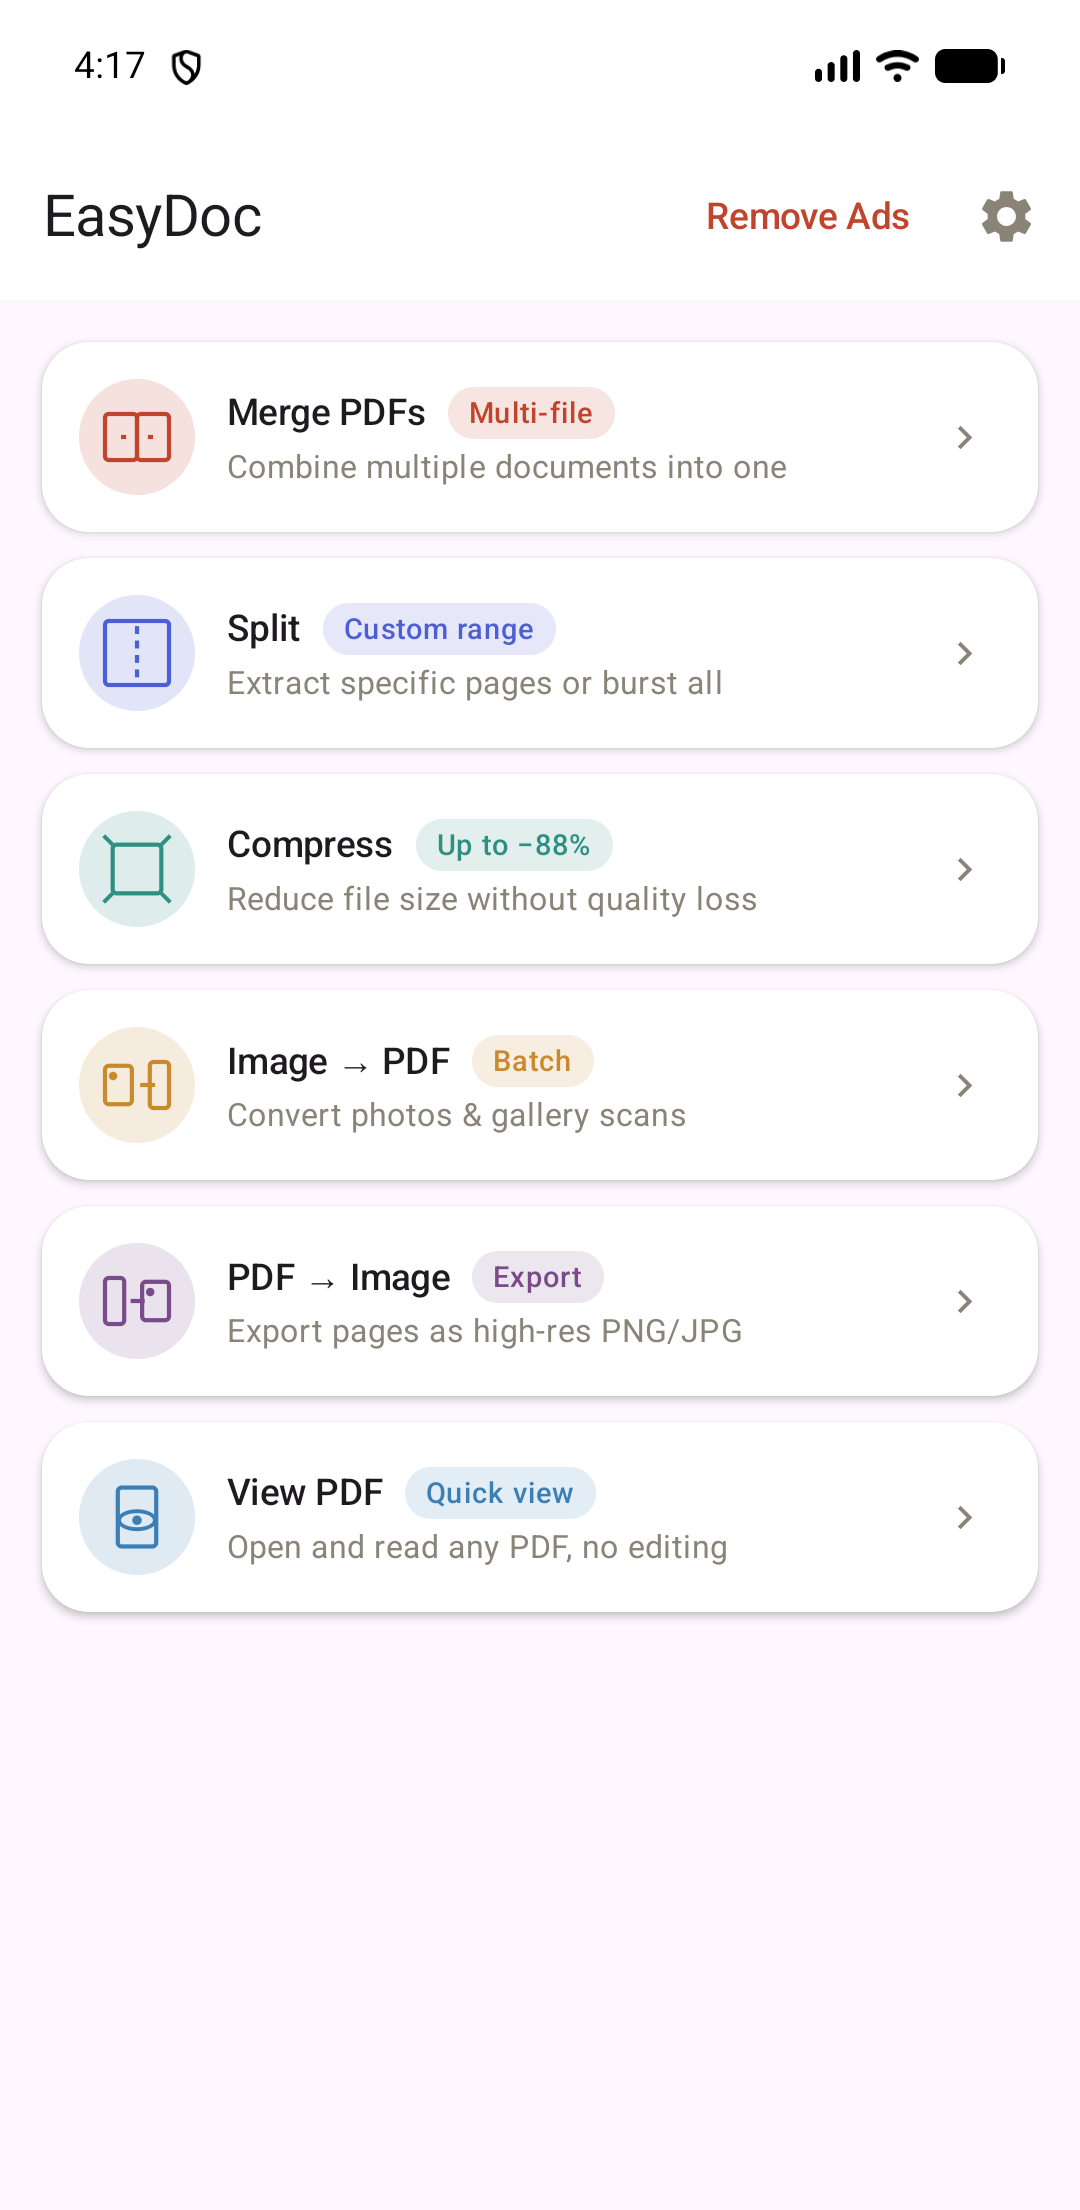
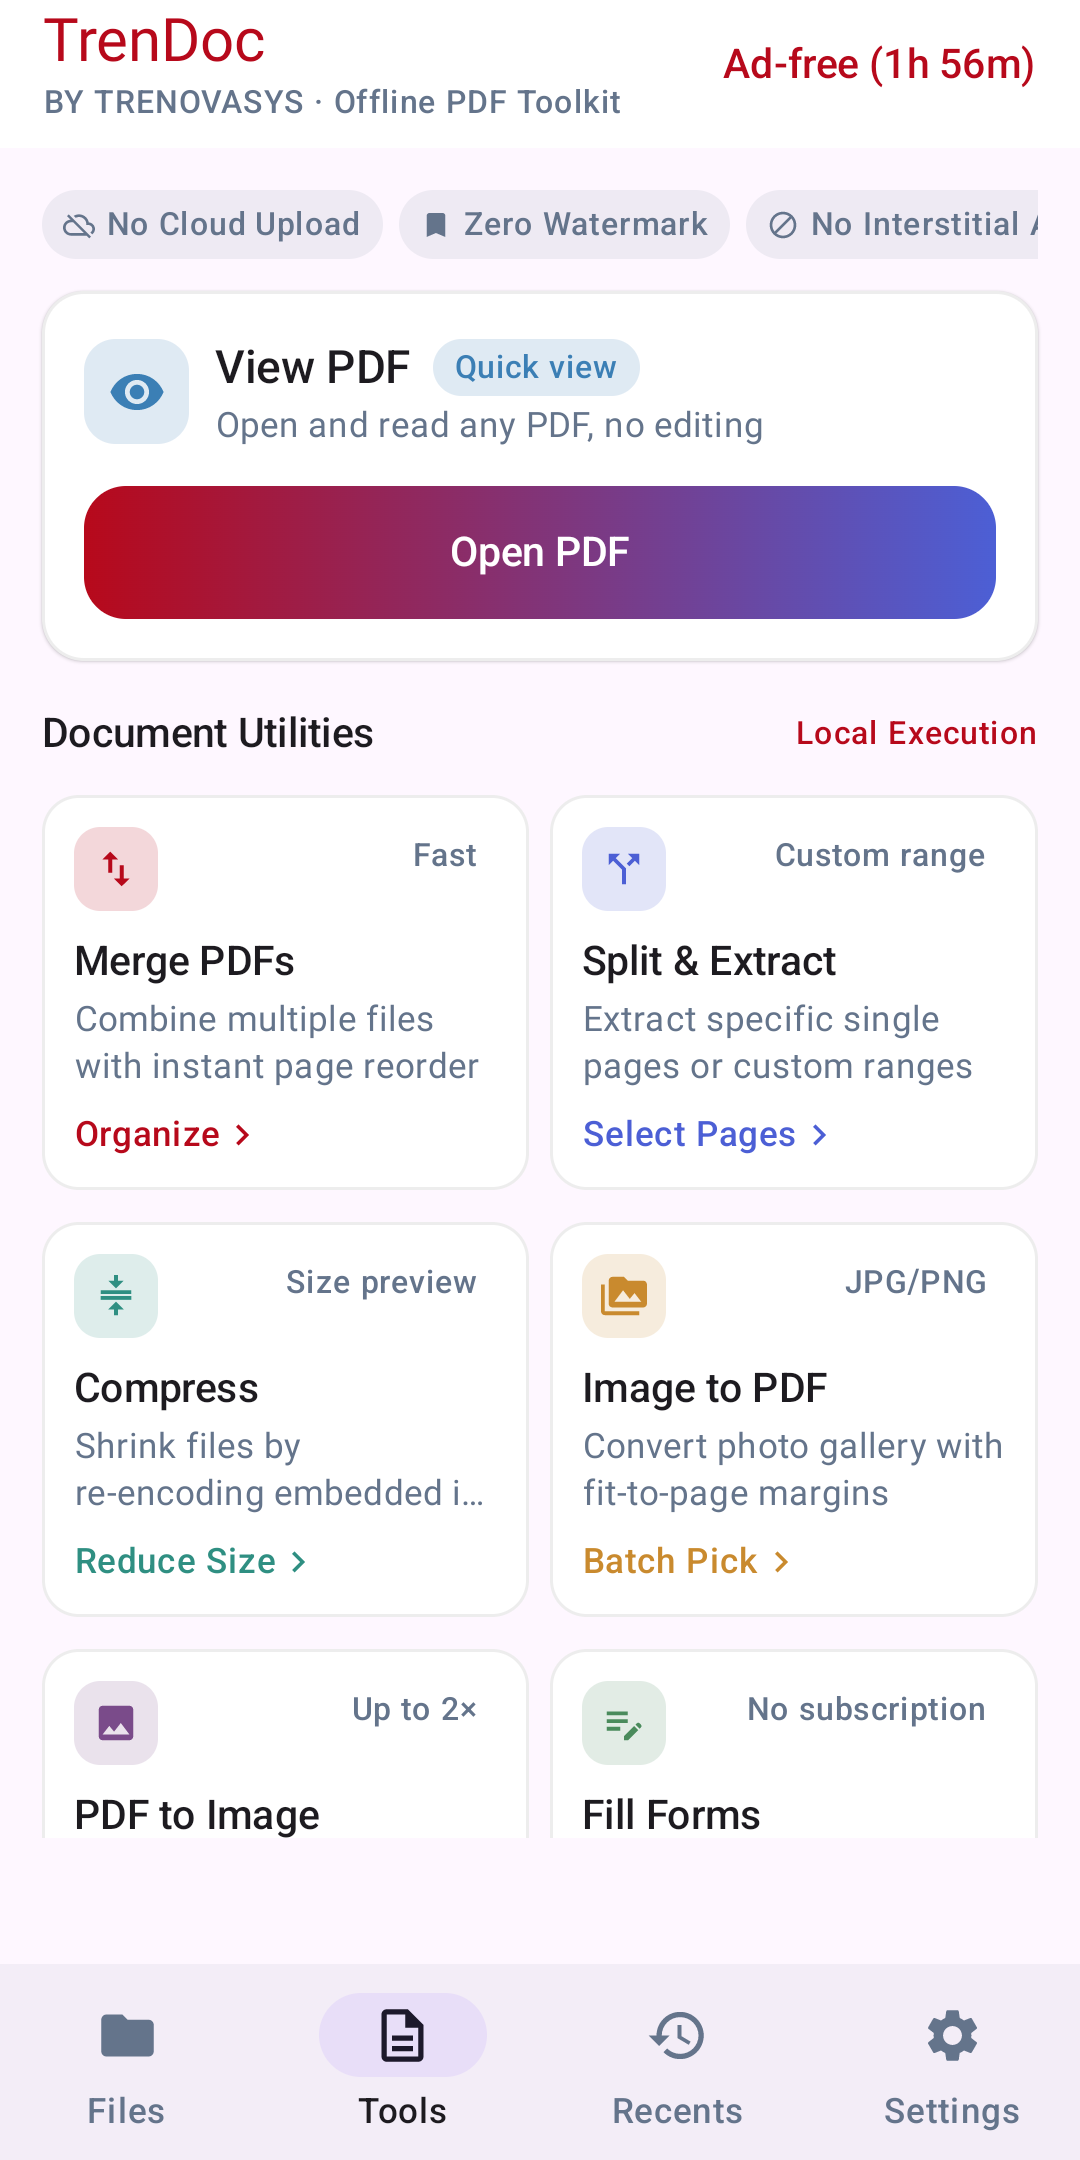
Retake store screenshots; stop form controls and page badge covering content
Screenshots: the five in store-listing/screenshots showed an older
build still named 'EasyDoc'. Replace them with eight captured from the
1.0.0 build on a Galaxy A32 (Home, View PDF, Split, Merge, Compress,
Fill Forms, Add Text, Appearance), cropped to 1080x2160 for Play's 2:1
limit and to drop personal status-bar icons, using fictional sample
documents. README updated.

Two layout bugs the new screenshots exposed:
- Fill Forms drew checkboxes and radios at a 20dp minimum, growing them
  over their own labels ('Adult' read 'ult'). Draw them at the PDF's
  box size; the 48dp tap area from Phase 4 is separate.
- View PDF's 'p. 01' badge overlaid the page's top-left corner, covering
  the document's title. It now sits above each page in the list gap.

diff --git a/app/src/main/kotlin/com/trendoc/pdflite/ui/view/ViewPdfScreen.kt b/app/src/main/kotlin/com/trendoc/pdflite/ui/view/ViewPdfScreen.kt
@@ -337,7 +337,16 @@ fun ViewPdfScreen(
                             viewModel.requestPage(index)
                             val page = viewModel.pageCache[index]
                             val pageSize = uiState.pageSizes.getOrNull(index)
-                            Box {
+                            Column(verticalArrangement = Arrangement.spacedBy(4.dp)) {
+                                // Page number above the page, in the list's own gap. As an overlay
+                                // on the page it covered whatever the document had in that corner —
+                                // a title at top-left, a footer at bottom-right.
+                                Text(
+                                    stringResource(R.string.view_page_badge, index + 1),
+                                    style = MaterialTheme.typography.labelSmall,
+                                    color = MaterialTheme.colorScheme.primary,
+                                    modifier = Modifier.padding(start = 4.dp)
+                                )
                                 Card(
                                     modifier = Modifier
                                         .fillMaxWidth()
@@ -369,19 +378,6 @@ fun ViewPdfScreen(
                                             CircularProgressIndicator(modifier = Modifier.size(28.dp))
                                         }
                                     }
-                                }
-                                Box(
-                                    modifier = Modifier
-                                        .padding(8.dp)
-                                        .clip(RoundedCornerShape(20.dp))
-                                        .background(MaterialTheme.colorScheme.surface.copy(alpha = 0.9f))
-                                        .padding(horizontal = 8.dp, vertical = 3.dp)
-                                ) {
-                                    Text(
-                                        stringResource(R.string.view_page_badge, index + 1),
-                                        style = MaterialTheme.typography.labelSmall,
-                                        color = MaterialTheme.colorScheme.primary
-                                    )
                                 }
                             }
                         }

diff --git a/app/src/main/kotlin/com/trendoc/pdflite/ui/fillforms/FillFormsScreen.kt b/app/src/main/kotlin/com/trendoc/pdflite/ui/fillforms/FillFormsScreen.kt
@@ -359,7 +359,9 @@ private fun FormPageView(
                     FieldKind.CHECKBOX -> CheckboxOverlay(
                         label = widget.label,
                         checked = fieldValues[widget.groupId] == widget.onValue,
-                        size = maxOf(widthDp, heightDp, 20.dp),
+                        // The PDF's own box size. The 48dp tap area is separate (FieldTouchTarget), so
+                        // the drawing no longer needs a 20dp floor — which grew it over its label.
+                        size = minOf(widthDp, heightDp).coerceAtLeast(10.dp),
                         enabled = !widget.isReadOnly,
                         onClick = { onCheckboxToggle(widget.groupId, widget.onValue ?: "Yes") }
                     )
@@ -367,7 +369,9 @@ private fun FormPageView(
                         // Option first, then its group: "Female, Gender".
                         label = listOfNotNull(widget.onValue, widget.label).joinToString(", "),
                         selected = fieldValues[widget.groupId] == widget.onValue,
-                        size = maxOf(widthDp, heightDp, 20.dp),
+                        // The PDF's own box size. The 48dp tap area is separate (FieldTouchTarget), so
+                        // the drawing no longer needs a 20dp floor — which grew it over its label.
+                        size = minOf(widthDp, heightDp).coerceAtLeast(10.dp),
                         enabled = !widget.isReadOnly,
                         onClick = { onRadioSelect(widget.groupId, widget.onValue ?: return@RadioOverlay) }
                     )

diff --git a/store-listing/README.md b/store-listing/README.md
@@ -28,21 +28,22 @@ this copy needs to be revisited before it's a lie rather than a fact.
 
 ## Screenshots
 
-Captured on-device from a debug build (Pixel 8 AVD), in the order Play Console displays them:
+Captured on a Samsung Galaxy A32 from the 1.0.0 debug build (2026-09-27), 1080×2160: the status and
+navigation bars are cropped (Play's 2:1 aspect limit, and no personal notification icons), and
+Samsung's Edge Panel handle — a system overlay, not app UI — is painted out of the right margin.
+Taken during an ad-free window, so no test banner shows. The documents shown are fictional
+samples made for these shots (a garden guide, a library-card form, a volunteer sign-up "scan").
 
-1. `01-home.png` — Home, all six tools in the List layout (the ad banner strip is cropped out — a
-   real production build would show a live ad here, not a "Test Ad" placeholder)
-2. `02-merge.png` — Merge PDFs entry screen
-3. `03-split.png` — Split / Extract Pages entry screen
-4. `04-compress.png` — Compress PDF entry screen
-5. `05-appearance.png` — Appearance settings (accent color, card/border/muted tints, background
-   style, Home layout, theme) — the app's user-customizable theming, a real differentiator worth
-   surfacing in the listing rather than just showing tool screens
+1. `01-home.png` — Home, every tool
+2. `02-view-pdf.png` — View PDF reading a document, with its quick-action chips
+3. `03-split.png` — Split, two of three pages selected
+4. `04-merge.png` — Merge queue with two files
+5. `05-compress.png` — Compress presets with size estimates
+6. `06-fill-forms.png` — Fill Forms, a form part-filled (text, radio, checkbox, dropdown)
+7. `07-add-text.png` — Add Text typing onto a scanned form with no fillable fields
+8. `08-appearance.png` — Appearance settings
 
-Not included: a View PDF screenshot with a rendered page — the on-device sample PDF used for
-testing throughout this project renders a blank page, which would look broken in a store
-listing. Swap in a real, visually rich PDF and recapture that screen before publishing if a
-sixth screenshot is wanted.
+Retake these if the UI changes visibly — Play requires screenshots to show the current app.
 
 ## Feature graphic & app icon
 
